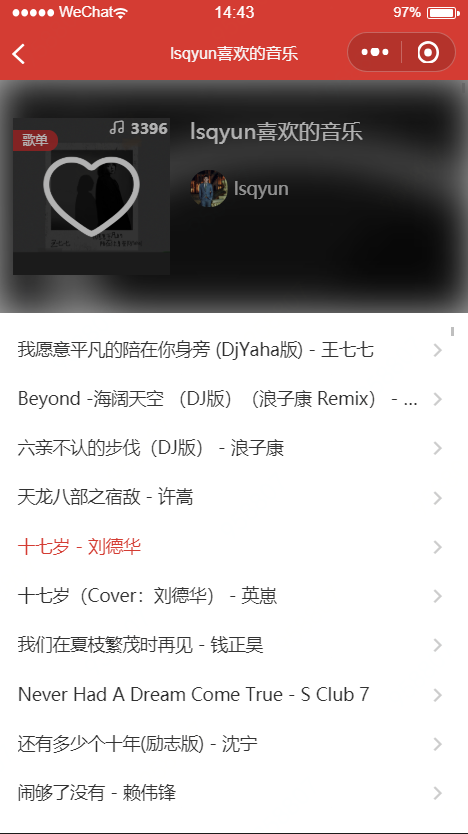
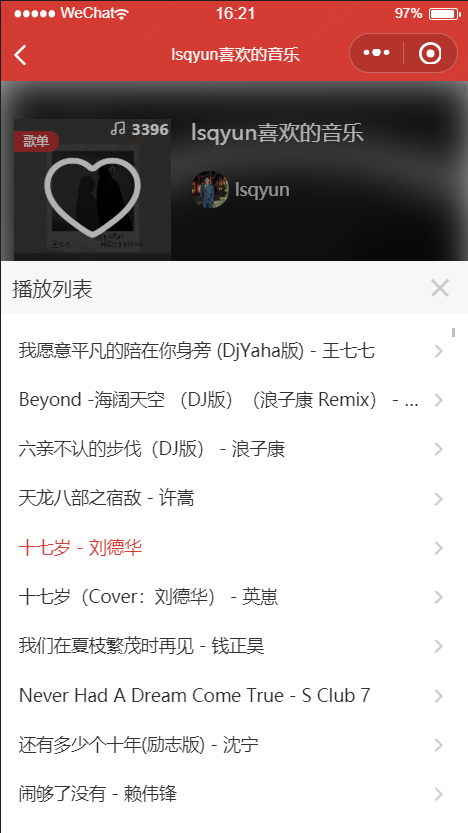
feat(doc): update

diff --git a/src/components/CMusic/index.tsx b/src/components/CMusic/index.tsx
@@ -102,7 +102,7 @@ export default class CMusic extends Component<Props, State> {
           <AtIcon value={isPlaying ? 'pause' : 'play'} size='30' color='#FFF' onClick={this.switchPlayStatus.bind(this)}></AtIcon>
         </View>
         <AtIcon value='playlist' size='28' color='#FFF' className="icon_playlist" onClick={this.showPlayList.bind(this)}></AtIcon>
-        <AtFloatLayout isOpened={isOpened} scrollY onClose={this.closePlayList.bind(this)}>
+        <AtFloatLayout isOpened={isOpened} title="播放列表" scrollY onClose={this.closePlayList.bind(this)}>
           <View className='music__playlist'>
             {
               canPlayList.map((item, index) => <View key={index} className={classnames({

diff --git a/src/components/CUserListItem/index.tsx b/src/components/CUserListItem/index.tsx
@@ -20,6 +20,7 @@ export default class CUserListItem extends Component<Props, {}> {
 
   render() {
     const { userInfo } = this.props
+    if (!userInfo) return null
     return (
         <View className='userListItem_components'>
             <Image 

diff --git a/README.md b/README.md
@@ -1,6 +1,6 @@
 ## taro-music
 
-> 基于`Taro`与网易云音乐api开发，技术栈主要是：`typescript+taro+taro-ui+redux`,目前主要是着重小程序端的展示.
+> 基于`Taro`与网易云音乐api开发，技术栈主要是：`typescript+taro+taro-ui+redux`,目前主要是着重小程序端的展示，主要也是借此项目强化下上述几个技术栈的使用
 
 ### 快速开始
 
@@ -63,51 +63,73 @@ npm run dev:weapp
 ### todo
 
 - 复用的评论列表
+- 搜索功能
+- `react-hooks`重构部分功能
 
 ### 效果图预览
 
 > 下面简要列出几张效果图
 
 - 登陆页面
-
-<image width="340" src="https://github.com/lsqy/taro-music/raw/master/screenshot/%E7%99%BB%E9%99%86%E9%A1%B5%E9%9D%A2.png"/>
+  
+<div align=center>
+  <image width="340" src="https://github.com/lsqy/taro-music/raw/master/screenshot/%E7%99%BB%E9%99%86%E9%A1%B5%E9%9D%A2.png"/>
+</div>
 
 - 我的页面
 
-<image width="340" src="https://github.com/lsqy/taro-music/raw/master/screenshot/我的页面.png"/>
+<div align=center>
+  <image width="340" src="https://github.com/lsqy/taro-music/raw/master/screenshot/我的页面.png"/>
+</div>
 
 - 推荐歌单
 
-<image width="340" src="https://github.com/lsqy/taro-music/raw/master/screenshot/推荐歌单.png"/>
+<div align=center>
+  <image width="340" src="https://github.com/lsqy/taro-music/raw/master/screenshot/推荐歌单.png"/>
+</div>
 
 - 歌单详情
 
-<image width="340" src="https://github.com/lsqy/taro-music/raw/master/screenshot/歌单详情.png"/>
+<div align=center>
+  <image width="340" src="https://github.com/lsqy/taro-music/raw/master/screenshot/歌单详情.png"/>
+</div>
 
 - 正在播放列表
 
-<image width="340" src="https://github.com/lsqy/taro-music/raw/master/screenshot/歌单播放列表.png"/>
+<div align=center>
+  <image width="340" src="https://github.com/lsqy/taro-music/raw/master/screenshot/歌单播放列表.png"/>
+</div>
 
 - 歌曲播放
 
-<image width="340" src="https://github.com/lsqy/taro-music/raw/master/screenshot/歌曲播放.png"/>
+<div align=center>
+  <image width="340" src="https://github.com/lsqy/taro-music/raw/master/screenshot/歌曲播放.png"/>
+</div>
 
 - 歌词显示
 
-<image width="340" src="https://github.com/lsqy/taro-music/raw/master/screenshot/歌词显示.png"/>
+<div align=center>
+  <image width="340" src="https://github.com/lsqy/taro-music/raw/master/screenshot/歌词显示.png"/>
+</div>
 
 - 最近播放
 
-<image width="340" src="https://github.com/lsqy/taro-music/raw/master/screenshot/最近播放.png"/>
+<div align=center>
+  <image width="340" src="https://github.com/lsqy/taro-music/raw/master/screenshot/最近播放.png"/>
+</div>
 
 - 关注列表
 
-<image width="340" src="https://github.com/lsqy/taro-music/raw/master/screenshot/关注列表.png"/>
+<div align=center>
+  <image width="340" src="https://github.com/lsqy/taro-music/raw/master/screenshot/关注列表.png"/>
+</div>
 
 - 粉丝列表
 
-<image width="340" src="https://github.com/lsqy/taro-music/raw/master/screenshot/粉丝列表.png"/>
+<div align=center>
+  <image width="340" src="https://github.com/lsqy/taro-music/raw/master/screenshot/粉丝列表.png"/>
+</div>
 
 ### 有待完善部分
 
-还有一些功能点以及细节都还有待进一步完善，目前先把大致主要的功能进行了下实现，当然如果发现什么问题，欢迎能够提交`issues`,发现之后我会及时进行更正,感谢大家支持🙏。
+还有一些功能点以及细节都还有待进一步完善，目前先把大致主要的功能进行了下实现，当然如果发现什么问题，欢迎能够提交`issues`,发现之后我会及时进行更正,欢迎 `star` 和 `fork`，感谢大家支持🙏。
